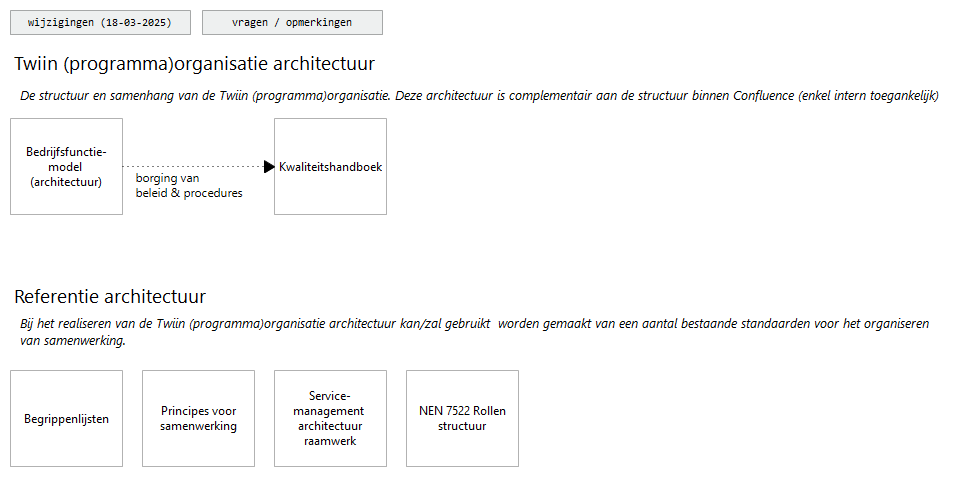
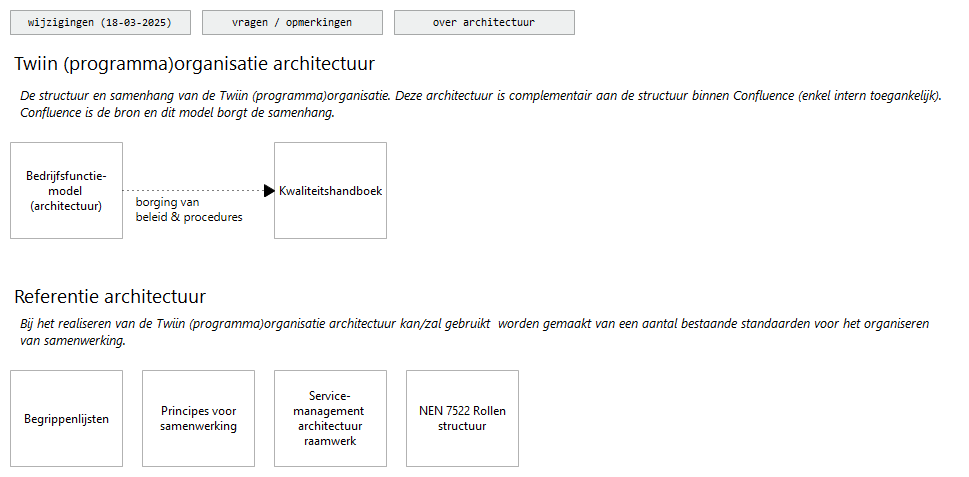
update

Changed region(s): [[0.0, 0.2935, 0.4025, 0.4696], [0.0, 0.2055, 0.3715, 0.2642], [0.4334, 0.0294, 0.5573, 0.0587]]

diff --git a/docs/tw-archi/id-b585bbf4dca74a17a0d9c57ed3b9f891/elements/model.html b/docs/tw-archi/id-b585bbf4dca74a17a0d9c57ed3b9f891/elements/model.html
@@ -136,30 +136,35 @@
 
 								dataFoldersContent.push({folderid:"id-b585bbf4dca74a17a0d9c57ed3b9f891", contentid:"id-059130753c1841ebbe4cdfee5f926d4b", contenttype:"Folder"});
 								dataFolders.push({id:"id-059130753c1841ebbe4cdfee5f926d4b", type:"Folder", name:decodeURL("Motivation"), documentation:decodeURL("")});
-									dataFoldersContent.push({folderid:"id-059130753c1841ebbe4cdfee5f926d4b", contentid:"id-0dcb68d77f0f4fc99e9935d92f7f2747", contenttype:"Principle"});
-										dataElements.push({id:"id-0dcb68d77f0f4fc99e9935d92f7f2747", type:"Principle", specialization:decodeURL(""), name:decodeURL("P1.+Landelijke+beschikbaarheid+en+hergebruik+van+gezondheidsgegevens"), documentation:decodeURL("OMSCHRIJVING%0D%0ALandelijke+en+zorgbrede+%28domeinoverstijgende%29+beschikbaarheid+van+gegevens+door+zorginfrastructuren+te+verbinden+met+afspraken+op+alle+lagen+van+het+interoperabiliteitsmodel.+Het+doel+is+deze+gegevens+in+te+zetten+voor+preventie%2C+zorg+en+welzijn+en+secundair+gebruik.+%0D%0A%0D%0AIn+eerste+instantie+zal+de+focus+van+Twiin+vooral+gericht+zijn+op+beschikbaarheid+en+hergebruik+binnen+de+zorg.%0D%0A%0D%0A%0D%0ARATIONALE%0D%0AZorg+vindt+steeds+meer+plaats+in+meerdere+instellingen+vaak+over+de+regio%27s+heen.+Burgers+zijn+mobiel+en+hebben+onafhankelijk+van+waar+ze+zich+bevinden+binnen+Nederland+recht+op+de+juiste+zorg.+Momenteel+is+de+reikwijdte+van+de+zorg+vaak+nog+beperkt+tot+regionaal%2C+lokaal+of+categoraal+niveau.%0D%0A%0D%0A%0D%0AIMPLICATIE%0D%0A-+Afstemming+op+alle+lagen%3A+politiek%2C+bestuur%2C+%28vak%29-verenigingen%2C+informatie+standaarden+en+infrastructuur+op+landelijk+niveau+in+samenwerking+met+regionale+en+lokale+organisaties.%0D%0A-+Twiin+is+schaalbaar+en+bruikbaar+voor+landelijke+uitwisseling.%0D%0A-+Uitwisseling+via+knooppunten%2C+gebruikmakend+van+%28bestaande%29+gemeenschappelijke+voorzieningen+%28conform+visie+samenhang+op+de+zorginfrastructuren%29.%0D%0A-+Uit+te+breiden+naar+meerdere+zorgtoepassingen.+De+architectuur+van+Twiin+moet+flexibel+genoeg+zijn+om+toekomstige+%28nieuwe%29+zorgtoepassingen+te+ondersteunen.")});
-									dataFoldersContent.push({folderid:"id-059130753c1841ebbe4cdfee5f926d4b", contentid:"id-a691c0ca694b4f02a363ed139cdc512e", contenttype:"Principle"});
-										dataElements.push({id:"id-a691c0ca694b4f02a363ed139cdc512e", type:"Principle", specialization:decodeURL(""), name:decodeURL("P2.+Twiin+is+een+vertrouwd+netwerk+van+organisaties"), documentation:decodeURL("OMSCHRIJVING%0D%0ATwiin+is+een+verzameling+van+autonome+actoren+die+van+elkaar+afhankelijk+zijn+om+een+gemeenschappelijk+probleem+op+te+lossen.%0D%0A%0D%0ADoor+afspraken+met+elkaar+te+maken+over+hoe+we+elkaar+kunnen+vertrouwen+%28in+het+vertrouwensmodel%29+en+deze+te+borgen+door+middel+van+validatie+en+technische+maatregelen+ontstaat+er+vertrouwen+in+elkaar.%0D%0A%0D%0A%0D%0ARATIONALE%0D%0AOm+problemen+op+te+lossen+die+door+een+enkele+organisatie+moeizaam+of+helemaal+niet+kunnen+worden+gerealiseerd.%0D%0A%0D%0A%0D%0AIMPLICATIE%0D%0A-+Twiin+kent+een+governancestructuur+met+rollen%2C+taken%2C+verantwoordelijkheden+en+bevoegdheden+om+besluiten+te+nemen+voor+ontwikkeling+en+beheer.+%0D%0A-+Twiin+kent+een+afsprakenstelsel+dat+bestaat+uit+een+set+van+samenhangende+afspraken%2C+procedures+en+regels+op+gebied+van+organisatie%2C+besturing%2C+toezicht%2C+beheer%2C+architectuur%2C+toepassingen%2C+techniek+met+als+doel+het+realiseren+en+borgen+van+het+vertrouwen+binnen+het+Twiin+netwerk.")});
-									dataFoldersContent.push({folderid:"id-059130753c1841ebbe4cdfee5f926d4b", contentid:"id-636be6794aac43b7a68b0efa26a36986", contenttype:"Principle"});
-										dataElements.push({id:"id-636be6794aac43b7a68b0efa26a36986", type:"Principle", specialization:decodeURL(""), name:decodeURL("P3.+Het+Twiin+Afsprakenstelsel+leeft+en+blijft+zich+ontwikkelen"), documentation:decodeURL("OMSCHRIJVING%0D%0AHet+Twiin+Afsprakenstelsel+leeft.+We+groeien+door+ervaringen+en+verwerken+deze+in+het+afsprakenstelsel.%0D%0A%0D%0A%0D%0ARATIONALE%0D%0AOm+doorontwikkeling+mogelijk+te+maken+%C3%A9n+te+kunnen+leren+van+tussentijdse+ervaringen%2C+volgt+het+afsprakenstelsel+een+groeipad.%0D%0A%0D%0AOm+voortgang+te+laten+zien%2C+te+gebruiken+wat+er+al+is+en+z.s.m.+oplossingen+te+integreren.%0D%0A%0D%0ADaarbij+is+ook+de+haalbaarheid+van+realisatie%2C+waaronder+de+aansluiting+op+de+huidige+ontwikkelingen+in+de+markt%2C+een+criterium.%0D%0A%0D%0ADaar+waar+duidelijkheid+nodig+is+in+de+afspraken+die+pas+op+termijn+van+kracht+zijn%2C+maar+die+op+enig+moment+nog+niet+haalbaar+zijn%2C+kan+een+groeipad+worden+afgesproken.%0D%0A%0D%0A%0D%0AIMPLICATIE%0D%0A-+Het+doel+van+Twiin+is+het+faciliteren+van+meerdere+zorgtoepassingen+door+het+aanbieden+van+gemeenschappelijke+voorzieningen+en+afspraken+voor+het+landelijk+beschikbaar+maken+en%2Fof+uitwisselen+van+gegevens.%0D%0A-+Twiin+heeft+als+ambitie+om+zorgdomeinbreed+te+faciliteren.%0D%0A-+Bij+het+oppakken+van+zorgtoepassingen+zijn+de+reeds+bestaande+landelijke+programma%E2%80%99s+in+de+lead+en+de+prioritering+van+de+WEGIZ+is+van+belang.")});
-									dataFoldersContent.push({folderid:"id-059130753c1841ebbe4cdfee5f926d4b", contentid:"id-0cf457532a4f4e4683f88f9436fed0be", contenttype:"Principle"});
-										dataElements.push({id:"id-0cf457532a4f4e4683f88f9436fed0be", type:"Principle", specialization:decodeURL(""), name:decodeURL("P4.+De+functionele+behoeften+van+zorgverleners%2C+zorgaanbieders+en+pati%C3%ABnten+zijn+leidend"), documentation:decodeURL("OMSCHRIJVING%0D%0ADe+functionele+behoeften+van+zorgverleners%2C+zorgaanbieders+en+pati%C3%ABnten+zijn+leidend+voor+het+Twiin+Afsprakenstelsel.%0D%0A%0D%0ARATIONALE%0D%0ADe+voornaamste+drijfveer+van+Twiin+is+om+invulling+te+geven+aan+de+functionele+behoeften+van+zorgverleners+en+pati%C3%ABnten+op+zodanige+wijze+dat+landelijke+dekking+en+maximaal+hergebruik+mogelijk+is+en+daardoor+de+zorgverlener+te+ontlasten+van+registratielast+en+de+zorg+te+verbeteren.+Ook+validatie+wordt+zo+ingericht+dat+de+belasting+zo+beperkt+mogelijk+is.+%0D%0A%0D%0AIMPLICATIE%0D%0A-+Voor+de+%28door%29ontwikkeling+van+Twiin%2C+inclusief+de+gemeenschappelijke+voorzieningen+en+afspraken%2C+gelden+de+functionele+behoeften+als+uitgangspunt.")});
-									dataFoldersContent.push({folderid:"id-059130753c1841ebbe4cdfee5f926d4b", contentid:"id-c376321785b84cba9f271229ea9f9472", contenttype:"Principle"});
-										dataElements.push({id:"id-c376321785b84cba9f271229ea9f9472", type:"Principle", specialization:decodeURL(""), name:decodeURL("P5.+Deelname+aan+Twiin+is+vrijwillig+maar+niet+vrijblijvend"), documentation:decodeURL("OMSCHRIJVING%0D%0AVrijwillig%0D%0AEen+zorgaanbieder+besluit+zelf+om+wel+of+niet+aan+te+sluiten+en+voor+welke+zorgtoepassing+dit+gebeurt.%0D%0A%0D%0ANiet+vrijblijvend%0D%0ADeelnemende+zorgaanbieders+dienen+te+voldoen+aan+de+afspraken+van+het+afsprakenstelsel.%0D%0A%0D%0ARATIONALE%0D%0AZorgaanbieders+die+aansluiten+moeten+er+op+kunnen+vertrouwen+dat+andere+aangesloten+zorgaanbieders+conform+het+afsprakenstelsel+werken.%0D%0A%0D%0AIMPLICATIE%0D%0A-+Mogelijk+zal+op+termijn+uitwisseling+van+gegevens+in+veldnormen+worden+opgenomen+en+via+VWS+worden+verankerd+in+wetgeving.%0D%0A-+Door+aansluiting+op+Twiin+kan+dit+vervolgens+in+de+praktijk+worden+gerealiseerd.+%0D%0A-+Elke+deelnemende+zorgaanbieder+beoogt+uitwisseling+met+alle+deelnemers+van+de+infrastructuur+binnen+de+zorgtoepassing+waarin+wordt+meegedaan.%0D%0A-+Het+afsprakenstelsel+verplicht+deelnemers+niet+om+daadwerkelijk+gegevens+uit+te+wisselen.+Dat+is+uiteindelijk+aan+de+zorgaanbieder%2Fpati%C3%ABnt.%0D%0A-+Zorgaanbieders+die+aansluiten+hebben+een+inspanningsverplichting+om+gegevens+beschikbaar+te+stellen.+")});
-									dataFoldersContent.push({folderid:"id-059130753c1841ebbe4cdfee5f926d4b", contentid:"id-f41596a6fbd34848bfc43be86cb89056", contenttype:"Principle"});
-										dataElements.push({id:"id-f41596a6fbd34848bfc43be86cb89056", type:"Principle", specialization:decodeURL(""), name:decodeURL("P6.+Keuzevrijheid+voor+zorgaanbieders+en+leveranciers"), documentation:decodeURL("OMSCHRIJVING%0D%0AZowel+de+%E2%80%98bewegingsvrijheid%E2%80%99+van+zorgaanbieders%2C+als+de+keuzevrijheid+van+beheerders+en+leveranciers+moet+zo+veel+mogelijk+in+stand+worden+gehouden.%0D%0A%0D%0ARATIONALE%0D%0ADe+zorgaanbieder+moet+vrijheid+hebben+in+de+leverancierskeuze+die+het+beste+bij+de+bedrijfsprocessen+past+of+economisch+gezien+het+meest+voordelig+is.%0D%0A%0D%0AZorgaanbieders+moeten+eenvoudig+kunnen+aansluiten+met+zo+min+mogelijk+opgeworpen+drempels.%0D%0A%0D%0ALeveranciers+hebben+gelijke+kansen+om+deel+te+nemen.%0D%0A%0D%0A%0D%0AIMPLICATIE%0D%0A-+De+Twiin+Dienstverleners+moeten+een+brede+kennis+hebben+van+en+relaties+hebben+met+leveranciers.%0D%0A-+Twiin+levert+een+overzicht+van+aansluitvoorwaarden+voor+zorgaanbieders%2C+GtK+Beheerders%2C+Twiin+Dienstverleners+en+GtK%E2%80%99s")});
-									dataFoldersContent.push({folderid:"id-059130753c1841ebbe4cdfee5f926d4b", contentid:"id-0ff7901da1674d18b0b14d908759be46", contenttype:"Principle"});
-										dataElements.push({id:"id-0ff7901da1674d18b0b14d908759be46", type:"Principle", specialization:decodeURL(""), name:decodeURL("P7.+Privacy+en+Security+by+design"), documentation:decodeURL("OMSCHRIJVING%0D%0AVoor+Twiin+zijn+privacy+en+informatiebeveiliging+randvoorwaardelijk.%0D%0A%0D%0ARATIONALE%0D%0APrivacy+en+security+zijn+randvoorwaardelijk+en+worden+dan+ook+vanaf+het+begin+meegenomen+in+het+ontwerp+en+de+ontwikkeling.%0D%0A%0D%0AIMPLICATIE%0D%0A-+Principes+en+best+practices+van+security+en+privacy+by+design+worden+gehanteerd+bij+het+maken+en+doorontwikkelen+van+het+Twiin+Afsprakenstelsel+en+architectuur.%0D%0A-+Informatiebeveiliging+en+privacy+worden+vanaf+het+begin+en+bij+doorontwikkeling+meegenomen+in+het+vertrouwensmodel+en+de+technische+uitwerking+hiervan+in+de+kern.+Het+heeft+zijn+impact+op+alle+onderdelen+van+het+afsprakenstelsel.%0D%0A-+Iedere+Twiin+deelnemer+zorgt+dat+wordt+voldaan+aan+de+beveiligingsnormen%2C+waaronder+met+name+NEN+7510%2C+NEN+7512+en+NEN+7513")});
-									dataFoldersContent.push({folderid:"id-059130753c1841ebbe4cdfee5f926d4b", contentid:"id-29b276598f7942a9bf04b73c23f3b80c", contenttype:"Principle"});
-										dataElements.push({id:"id-29b276598f7942a9bf04b73c23f3b80c", type:"Principle", specialization:decodeURL(""), name:decodeURL("P8.+Gebruik+van+internationale+standaarden"), documentation:decodeURL("OMSCHRIJVING%0D%0AHantering+van+internationale+standaarden+boven+Europese+en+nationale+standaarden%0D%0A%0D%0AOm+technische+interoperabiliteit+te+realiseren%2C+gaat+Twiin+zoveel+mogelijk+uit+van+open+%28internationale%29+standaarden.%0D%0A%0D%0ATwiin+maakt+gebruik+van+bestaande+en+in+beheer+zijnde+standaarden%2C+normen+en+agreements.%0D%0A%0D%0A%0D%0ARATIONALE%0D%0ADoor+gebruik+van+open+internationale+standaarden+wordt+de+afhankelijkheid+van+een+leverancier+grotendeels+voorkomen.%0D%0A%0D%0ADe+uitwisselbaarheid+en+herbruikbaarheid+wordt+verhoogd.+%0D%0A%0D%0APer+zorgtoepassing+zijn+andere+partijen+betrokken+en+worden+andere+gegevens+uitgewisseld%2C+waardoor+keuze+voor+een+vaste+techniek+niet+altijd+de+meest+passende+is.%0D%0A%0D%0AOpen+internationale+standaarden+worden+breed+gedragen+en+zullen+in+samenhang+met+nieuwe+standaarden+blijven+werken+%28robuust%29.%0D%0A%0D%0AZorg+is+internationaal+en+leveranciers+van+informatietechnologie%C3%ABn+zijn+internationaal.%0D%0A%0D%0A%0D%0AIMPLICATIE%0D%0A-+De+keuze+is+niet+gebaseerd+op+%C3%A9%C3%A9n+enkele+techniek.+Er+wordt+gekeken+wat+de+juiste+keuze+is+per+%27zorgtoepassing%27+en+naar+wat+mogelijk+is%2C+uitgaande+van+vorige+principes+en+al+in+gebruik+zijnde+standaarden.%0D%0A-+Standaarden+moeten+implementeerbaar+zijn+in+de+Nederlandse+setting+door+meerdere+leveranciers+en+in+lijn+zijn+met+toepasselijke+wet-+en+regelgeving.%0D%0A-+Indien+nodig+kan+er+gebruik+gemaakt+worden+van+nationale+extensies+of+kunnen+nationale+extensies+ontwikkeld+worden.++%0D%0A-+Twiin+verwijst+naar+andere+organisaties+als+het+gaat+om+standaarden%2C+zoals+kwaliteitsstandaarden+of+informatiestandaarden.%0D%0A-+Hierdoor+ontstaat+een+afhankelijkheid+van+deze+standaarden.+De+verantwoordelijkheid+voor+deze+standaarden+ligt+bij+de+organisaties+die+deze+standaarden+cre%C3%ABren+en%2F+of+beheren.+Ook+een+eventuele+kwalificatie+om+te+voldoen+aan+deze+standaarden+ligt+bij+deze+organisaties.%0D%0A-+Voor+elke+zorgtoepassing+zal+door+het+veld+geanalyseerd+worden+of+de+bestaande+informatiestandaard+landelijk+toereikend+is+of+dat+er+toevoegingen+moeten+komen.%0D%0A-+Als+er+nog+geen+informatiestandaard+is%2C+dan+wordt+deze+ontwikkeld+%28buiten+Twiin%29+op+basis+van+%28inter%29nationale+standaarden.")});
-									dataFoldersContent.push({folderid:"id-059130753c1841ebbe4cdfee5f926d4b", contentid:"id-fd8f339f49b547e19df9332aeccdc9d5", contenttype:"Principle"});
-										dataElements.push({id:"id-fd8f339f49b547e19df9332aeccdc9d5", type:"Principle", specialization:decodeURL(""), name:decodeURL("Principle"), documentation:decodeURL("")});
-									dataFoldersContent.push({folderid:"id-059130753c1841ebbe4cdfee5f926d4b", contentid:"id-971a682fee2b43089d83ed4c0eb87ac7", contenttype:"Requirement"});
-										dataElements.push({id:"id-971a682fee2b43089d83ed4c0eb87ac7", type:"Requirement", specialization:decodeURL(""), name:decodeURL("Zorgaanbieder+identificatie"), documentation:decodeURL("VEREISTE%0D%0A+-+%0D%0A%0D%0AVERANTWOORDELIJKHEID%0D%0A-+%0D%0A%0D%0AINVULLING+TWIIN%0D%0A-+%0D%0A%0D%0ATOELICHTING%0D%0A-+")});
-									dataFoldersContent.push({folderid:"id-059130753c1841ebbe4cdfee5f926d4b", contentid:"id-909c1f9e5299462fa05c6dda18d77d51", contenttype:"Requirement"});
-										dataElements.push({id:"id-909c1f9e5299462fa05c6dda18d77d51", type:"Requirement", specialization:decodeURL(""), name:decodeURL("Zorgverlener+identificatie"), documentation:decodeURL("VEREISTE%0D%0A+-+%0D%0A%0D%0AVERANTWOORDELIJKHEID%0D%0A-+%0D%0A%0D%0AINVULLING+TWIIN%0D%0A-+%0D%0A%0D%0ATOELICHTING%0D%0A-+")});
-									dataFoldersContent.push({folderid:"id-059130753c1841ebbe4cdfee5f926d4b", contentid:"id-6e5548731d024352b83623507ea2c99d", contenttype:"Constraint"});
-										dataElements.push({id:"id-6e5548731d024352b83623507ea2c99d", type:"Constraint", specialization:decodeURL(""), name:decodeURL("Pati%C3%ABnt+identificatie"), documentation:decodeURL("VEREISTE%0D%0A-+Pati%C3%ABnten+worden+ge%C3%AFdentificeerd++met+een+landelijk+uniek+nummer%3B+het+BSN%0D%0A%0D%0AVERANTWOORDELIJKHEID%0D%0A-+Dossierhouder+en+dossierraadpleger%2F-ontvanger+dienen+pati%C3%ABnten+op+dezelfde+manier+te+identificeren.%0D%0A%0D%0AINVULLING+TWIIN%0D%0A+-+BSN%0D%0A%0D%0AVERANTWOORDELIJKHEID%0D%0A-+Twiin+heeft+nog+niet+uitgewerkt%2C+hoe+om+te+gaan+met+een+niet+aanwezig+BSN+en+gaat+vooralsnog+uit+van+uitwisseling+op+basis+van+BSN.+Als+er+geen+BSN+is+kan+er+voorlopig+dan+ook+niet+uitgewisseld+worden+op+basis+van+validatie+door+Twiin.")});
+									dataFoldersContent.push({folderid:"id-059130753c1841ebbe4cdfee5f926d4b", contentid:"id-2df2a9834b7945499183e3fa654c92b4", contenttype:"Folder"});
+									dataFolders.push({id:"id-2df2a9834b7945499183e3fa654c92b4", type:"Folder", name:decodeURL("Afsprakenstelsel+-+principes"), documentation:decodeURL("")});
+										dataFoldersContent.push({folderid:"id-2df2a9834b7945499183e3fa654c92b4", contentid:"id-0dcb68d77f0f4fc99e9935d92f7f2747", contenttype:"Principle"});
+											dataElements.push({id:"id-0dcb68d77f0f4fc99e9935d92f7f2747", type:"Principle", specialization:decodeURL(""), name:decodeURL("P1.+Landelijke+beschikbaarheid+en+hergebruik+van+gezondheidsgegevens"), documentation:decodeURL("OMSCHRIJVING%0D%0ALandelijke+en+zorgbrede+%28domeinoverstijgende%29+beschikbaarheid+van+gegevens+door+zorginfrastructuren+te+verbinden+met+afspraken+op+alle+lagen+van+het+interoperabiliteitsmodel.+Het+doel+is+deze+gegevens+in+te+zetten+voor+preventie%2C+zorg+en+welzijn+en+secundair+gebruik.+%0D%0A%0D%0AIn+eerste+instantie+zal+de+focus+van+Twiin+vooral+gericht+zijn+op+beschikbaarheid+en+hergebruik+binnen+de+zorg.%0D%0A%0D%0A%0D%0ARATIONALE%0D%0AZorg+vindt+steeds+meer+plaats+in+meerdere+instellingen+vaak+over+de+regio%27s+heen.+Burgers+zijn+mobiel+en+hebben+onafhankelijk+van+waar+ze+zich+bevinden+binnen+Nederland+recht+op+de+juiste+zorg.+Momenteel+is+de+reikwijdte+van+de+zorg+vaak+nog+beperkt+tot+regionaal%2C+lokaal+of+categoraal+niveau.%0D%0A%0D%0A%0D%0AIMPLICATIE%0D%0A-+Afstemming+op+alle+lagen%3A+politiek%2C+bestuur%2C+%28vak%29-verenigingen%2C+informatie+standaarden+en+infrastructuur+op+landelijk+niveau+in+samenwerking+met+regionale+en+lokale+organisaties.%0D%0A-+Twiin+is+schaalbaar+en+bruikbaar+voor+landelijke+uitwisseling.%0D%0A-+Uitwisseling+via+knooppunten%2C+gebruikmakend+van+%28bestaande%29+gemeenschappelijke+voorzieningen+%28conform+visie+samenhang+op+de+zorginfrastructuren%29.%0D%0A-+Uit+te+breiden+naar+meerdere+zorgtoepassingen.+De+architectuur+van+Twiin+moet+flexibel+genoeg+zijn+om+toekomstige+%28nieuwe%29+zorgtoepassingen+te+ondersteunen.")});
+										dataFoldersContent.push({folderid:"id-2df2a9834b7945499183e3fa654c92b4", contentid:"id-a691c0ca694b4f02a363ed139cdc512e", contenttype:"Principle"});
+											dataElements.push({id:"id-a691c0ca694b4f02a363ed139cdc512e", type:"Principle", specialization:decodeURL(""), name:decodeURL("P2.+Twiin+is+een+vertrouwd+netwerk+van+organisaties"), documentation:decodeURL("OMSCHRIJVING%0D%0ATwiin+is+een+verzameling+van+autonome+actoren+die+van+elkaar+afhankelijk+zijn+om+een+gemeenschappelijk+probleem+op+te+lossen.%0D%0A%0D%0ADoor+afspraken+met+elkaar+te+maken+over+hoe+we+elkaar+kunnen+vertrouwen+%28in+het+vertrouwensmodel%29+en+deze+te+borgen+door+middel+van+validatie+en+technische+maatregelen+ontstaat+er+vertrouwen+in+elkaar.%0D%0A%0D%0A%0D%0ARATIONALE%0D%0AOm+problemen+op+te+lossen+die+door+een+enkele+organisatie+moeizaam+of+helemaal+niet+kunnen+worden+gerealiseerd.%0D%0A%0D%0A%0D%0AIMPLICATIE%0D%0A-+Twiin+kent+een+governancestructuur+met+rollen%2C+taken%2C+verantwoordelijkheden+en+bevoegdheden+om+besluiten+te+nemen+voor+ontwikkeling+en+beheer.+%0D%0A-+Twiin+kent+een+afsprakenstelsel+dat+bestaat+uit+een+set+van+samenhangende+afspraken%2C+procedures+en+regels+op+gebied+van+organisatie%2C+besturing%2C+toezicht%2C+beheer%2C+architectuur%2C+toepassingen%2C+techniek+met+als+doel+het+realiseren+en+borgen+van+het+vertrouwen+binnen+het+Twiin+netwerk.")});
+										dataFoldersContent.push({folderid:"id-2df2a9834b7945499183e3fa654c92b4", contentid:"id-636be6794aac43b7a68b0efa26a36986", contenttype:"Principle"});
+											dataElements.push({id:"id-636be6794aac43b7a68b0efa26a36986", type:"Principle", specialization:decodeURL(""), name:decodeURL("P3.+Het+Twiin+Afsprakenstelsel+leeft+en+blijft+zich+ontwikkelen"), documentation:decodeURL("OMSCHRIJVING%0D%0AHet+Twiin+Afsprakenstelsel+leeft.+We+groeien+door+ervaringen+en+verwerken+deze+in+het+afsprakenstelsel.%0D%0A%0D%0A%0D%0ARATIONALE%0D%0AOm+doorontwikkeling+mogelijk+te+maken+%C3%A9n+te+kunnen+leren+van+tussentijdse+ervaringen%2C+volgt+het+afsprakenstelsel+een+groeipad.%0D%0A%0D%0AOm+voortgang+te+laten+zien%2C+te+gebruiken+wat+er+al+is+en+z.s.m.+oplossingen+te+integreren.%0D%0A%0D%0ADaarbij+is+ook+de+haalbaarheid+van+realisatie%2C+waaronder+de+aansluiting+op+de+huidige+ontwikkelingen+in+de+markt%2C+een+criterium.%0D%0A%0D%0ADaar+waar+duidelijkheid+nodig+is+in+de+afspraken+die+pas+op+termijn+van+kracht+zijn%2C+maar+die+op+enig+moment+nog+niet+haalbaar+zijn%2C+kan+een+groeipad+worden+afgesproken.%0D%0A%0D%0A%0D%0AIMPLICATIE%0D%0A-+Het+doel+van+Twiin+is+het+faciliteren+van+meerdere+zorgtoepassingen+door+het+aanbieden+van+gemeenschappelijke+voorzieningen+en+afspraken+voor+het+landelijk+beschikbaar+maken+en%2Fof+uitwisselen+van+gegevens.%0D%0A-+Twiin+heeft+als+ambitie+om+zorgdomeinbreed+te+faciliteren.%0D%0A-+Bij+het+oppakken+van+zorgtoepassingen+zijn+de+reeds+bestaande+landelijke+programma%E2%80%99s+in+de+lead+en+de+prioritering+van+de+WEGIZ+is+van+belang.")});
+										dataFoldersContent.push({folderid:"id-2df2a9834b7945499183e3fa654c92b4", contentid:"id-0cf457532a4f4e4683f88f9436fed0be", contenttype:"Principle"});
+											dataElements.push({id:"id-0cf457532a4f4e4683f88f9436fed0be", type:"Principle", specialization:decodeURL(""), name:decodeURL("P4.+De+functionele+behoeften+van+zorgverleners%2C+zorgaanbieders+en+pati%C3%ABnten+zijn+leidend"), documentation:decodeURL("OMSCHRIJVING%0D%0ADe+functionele+behoeften+van+zorgverleners%2C+zorgaanbieders+en+pati%C3%ABnten+zijn+leidend+voor+het+Twiin+Afsprakenstelsel.%0D%0A%0D%0ARATIONALE%0D%0ADe+voornaamste+drijfveer+van+Twiin+is+om+invulling+te+geven+aan+de+functionele+behoeften+van+zorgverleners+en+pati%C3%ABnten+op+zodanige+wijze+dat+landelijke+dekking+en+maximaal+hergebruik+mogelijk+is+en+daardoor+de+zorgverlener+te+ontlasten+van+registratielast+en+de+zorg+te+verbeteren.+Ook+validatie+wordt+zo+ingericht+dat+de+belasting+zo+beperkt+mogelijk+is.+%0D%0A%0D%0AIMPLICATIE%0D%0A-+Voor+de+%28door%29ontwikkeling+van+Twiin%2C+inclusief+de+gemeenschappelijke+voorzieningen+en+afspraken%2C+gelden+de+functionele+behoeften+als+uitgangspunt.")});
+										dataFoldersContent.push({folderid:"id-2df2a9834b7945499183e3fa654c92b4", contentid:"id-c376321785b84cba9f271229ea9f9472", contenttype:"Principle"});
+											dataElements.push({id:"id-c376321785b84cba9f271229ea9f9472", type:"Principle", specialization:decodeURL(""), name:decodeURL("P5.+Deelname+aan+Twiin+is+vrijwillig+maar+niet+vrijblijvend"), documentation:decodeURL("OMSCHRIJVING%0D%0AVrijwillig%0D%0AEen+zorgaanbieder+besluit+zelf+om+wel+of+niet+aan+te+sluiten+en+voor+welke+zorgtoepassing+dit+gebeurt.%0D%0A%0D%0ANiet+vrijblijvend%0D%0ADeelnemende+zorgaanbieders+dienen+te+voldoen+aan+de+afspraken+van+het+afsprakenstelsel.%0D%0A%0D%0ARATIONALE%0D%0AZorgaanbieders+die+aansluiten+moeten+er+op+kunnen+vertrouwen+dat+andere+aangesloten+zorgaanbieders+conform+het+afsprakenstelsel+werken.%0D%0A%0D%0AIMPLICATIE%0D%0A-+Mogelijk+zal+op+termijn+uitwisseling+van+gegevens+in+veldnormen+worden+opgenomen+en+via+VWS+worden+verankerd+in+wetgeving.%0D%0A-+Door+aansluiting+op+Twiin+kan+dit+vervolgens+in+de+praktijk+worden+gerealiseerd.+%0D%0A-+Elke+deelnemende+zorgaanbieder+beoogt+uitwisseling+met+alle+deelnemers+van+de+infrastructuur+binnen+de+zorgtoepassing+waarin+wordt+meegedaan.%0D%0A-+Het+afsprakenstelsel+verplicht+deelnemers+niet+om+daadwerkelijk+gegevens+uit+te+wisselen.+Dat+is+uiteindelijk+aan+de+zorgaanbieder%2Fpati%C3%ABnt.%0D%0A-+Zorgaanbieders+die+aansluiten+hebben+een+inspanningsverplichting+om+gegevens+beschikbaar+te+stellen.+")});
+										dataFoldersContent.push({folderid:"id-2df2a9834b7945499183e3fa654c92b4", contentid:"id-f41596a6fbd34848bfc43be86cb89056", contenttype:"Principle"});
+											dataElements.push({id:"id-f41596a6fbd34848bfc43be86cb89056", type:"Principle", specialization:decodeURL(""), name:decodeURL("P6.+Keuzevrijheid+voor+zorgaanbieders+en+leveranciers"), documentation:decodeURL("OMSCHRIJVING%0D%0AZowel+de+%E2%80%98bewegingsvrijheid%E2%80%99+van+zorgaanbieders%2C+als+de+keuzevrijheid+van+beheerders+en+leveranciers+moet+zo+veel+mogelijk+in+stand+worden+gehouden.%0D%0A%0D%0ARATIONALE%0D%0ADe+zorgaanbieder+moet+vrijheid+hebben+in+de+leverancierskeuze+die+het+beste+bij+de+bedrijfsprocessen+past+of+economisch+gezien+het+meest+voordelig+is.%0D%0A%0D%0AZorgaanbieders+moeten+eenvoudig+kunnen+aansluiten+met+zo+min+mogelijk+opgeworpen+drempels.%0D%0A%0D%0ALeveranciers+hebben+gelijke+kansen+om+deel+te+nemen.%0D%0A%0D%0A%0D%0AIMPLICATIE%0D%0A-+De+Twiin+Dienstverleners+moeten+een+brede+kennis+hebben+van+en+relaties+hebben+met+leveranciers.%0D%0A-+Twiin+levert+een+overzicht+van+aansluitvoorwaarden+voor+zorgaanbieders%2C+GtK+Beheerders%2C+Twiin+Dienstverleners+en+GtK%E2%80%99s")});
+										dataFoldersContent.push({folderid:"id-2df2a9834b7945499183e3fa654c92b4", contentid:"id-0ff7901da1674d18b0b14d908759be46", contenttype:"Principle"});
+											dataElements.push({id:"id-0ff7901da1674d18b0b14d908759be46", type:"Principle", specialization:decodeURL(""), name:decodeURL("P7.+Privacy+en+Security+by+design"), documentation:decodeURL("OMSCHRIJVING%0D%0AVoor+Twiin+zijn+privacy+en+informatiebeveiliging+randvoorwaardelijk.%0D%0A%0D%0ARATIONALE%0D%0APrivacy+en+security+zijn+randvoorwaardelijk+en+worden+dan+ook+vanaf+het+begin+meegenomen+in+het+ontwerp+en+de+ontwikkeling.%0D%0A%0D%0AIMPLICATIE%0D%0A-+Principes+en+best+practices+van+security+en+privacy+by+design+worden+gehanteerd+bij+het+maken+en+doorontwikkelen+van+het+Twiin+Afsprakenstelsel+en+architectuur.%0D%0A-+Informatiebeveiliging+en+privacy+worden+vanaf+het+begin+en+bij+doorontwikkeling+meegenomen+in+het+vertrouwensmodel+en+de+technische+uitwerking+hiervan+in+de+kern.+Het+heeft+zijn+impact+op+alle+onderdelen+van+het+afsprakenstelsel.%0D%0A-+Iedere+Twiin+deelnemer+zorgt+dat+wordt+voldaan+aan+de+beveiligingsnormen%2C+waaronder+met+name+NEN+7510%2C+NEN+7512+en+NEN+7513")});
+										dataFoldersContent.push({folderid:"id-2df2a9834b7945499183e3fa654c92b4", contentid:"id-29b276598f7942a9bf04b73c23f3b80c", contenttype:"Principle"});
+											dataElements.push({id:"id-29b276598f7942a9bf04b73c23f3b80c", type:"Principle", specialization:decodeURL(""), name:decodeURL("P8.+Gebruik+van+internationale+standaarden"), documentation:decodeURL("OMSCHRIJVING%0D%0AHantering+van+internationale+standaarden+boven+Europese+en+nationale+standaarden%0D%0A%0D%0AOm+technische+interoperabiliteit+te+realiseren%2C+gaat+Twiin+zoveel+mogelijk+uit+van+open+%28internationale%29+standaarden.%0D%0A%0D%0ATwiin+maakt+gebruik+van+bestaande+en+in+beheer+zijnde+standaarden%2C+normen+en+agreements.%0D%0A%0D%0A%0D%0ARATIONALE%0D%0ADoor+gebruik+van+open+internationale+standaarden+wordt+de+afhankelijkheid+van+een+leverancier+grotendeels+voorkomen.%0D%0A%0D%0ADe+uitwisselbaarheid+en+herbruikbaarheid+wordt+verhoogd.+%0D%0A%0D%0APer+zorgtoepassing+zijn+andere+partijen+betrokken+en+worden+andere+gegevens+uitgewisseld%2C+waardoor+keuze+voor+een+vaste+techniek+niet+altijd+de+meest+passende+is.%0D%0A%0D%0AOpen+internationale+standaarden+worden+breed+gedragen+en+zullen+in+samenhang+met+nieuwe+standaarden+blijven+werken+%28robuust%29.%0D%0A%0D%0AZorg+is+internationaal+en+leveranciers+van+informatietechnologie%C3%ABn+zijn+internationaal.%0D%0A%0D%0A%0D%0AIMPLICATIE%0D%0A-+De+keuze+is+niet+gebaseerd+op+%C3%A9%C3%A9n+enkele+techniek.+Er+wordt+gekeken+wat+de+juiste+keuze+is+per+%27zorgtoepassing%27+en+naar+wat+mogelijk+is%2C+uitgaande+van+vorige+principes+en+al+in+gebruik+zijnde+standaarden.%0D%0A-+Standaarden+moeten+implementeerbaar+zijn+in+de+Nederlandse+setting+door+meerdere+leveranciers+en+in+lijn+zijn+met+toepasselijke+wet-+en+regelgeving.%0D%0A-+Indien+nodig+kan+er+gebruik+gemaakt+worden+van+nationale+extensies+of+kunnen+nationale+extensies+ontwikkeld+worden.++%0D%0A-+Twiin+verwijst+naar+andere+organisaties+als+het+gaat+om+standaarden%2C+zoals+kwaliteitsstandaarden+of+informatiestandaarden.%0D%0A-+Hierdoor+ontstaat+een+afhankelijkheid+van+deze+standaarden.+De+verantwoordelijkheid+voor+deze+standaarden+ligt+bij+de+organisaties+die+deze+standaarden+cre%C3%ABren+en%2F+of+beheren.+Ook+een+eventuele+kwalificatie+om+te+voldoen+aan+deze+standaarden+ligt+bij+deze+organisaties.%0D%0A-+Voor+elke+zorgtoepassing+zal+door+het+veld+geanalyseerd+worden+of+de+bestaande+informatiestandaard+landelijk+toereikend+is+of+dat+er+toevoegingen+moeten+komen.%0D%0A-+Als+er+nog+geen+informatiestandaard+is%2C+dan+wordt+deze+ontwikkeld+%28buiten+Twiin%29+op+basis+van+%28inter%29nationale+standaarden.")});
+
+									dataFoldersContent.push({folderid:"id-059130753c1841ebbe4cdfee5f926d4b", contentid:"id-e8602a6434564276821801027030fee5", contenttype:"Folder"});
+									dataFolders.push({id:"id-e8602a6434564276821801027030fee5", type:"Folder", name:decodeURL("Vertrouwensmode+-+requirements"), documentation:decodeURL("")});
+										dataFoldersContent.push({folderid:"id-e8602a6434564276821801027030fee5", contentid:"id-6e5548731d024352b83623507ea2c99d", contenttype:"Constraint"});
+											dataElements.push({id:"id-6e5548731d024352b83623507ea2c99d", type:"Constraint", specialization:decodeURL(""), name:decodeURL("Pati%C3%ABnt+identificatie"), documentation:decodeURL("VEREISTE%0D%0A-+Pati%C3%ABnten+worden+ge%C3%AFdentificeerd++met+een+landelijk+uniek+nummer%3B+het+BSN%0D%0A%0D%0AVERANTWOORDELIJKHEID%0D%0A-+Dossierhouder+en+dossierraadpleger%2F-ontvanger+dienen+pati%C3%ABnten+op+dezelfde+manier+te+identificeren.%0D%0A%0D%0AINVULLING+TWIIN%0D%0A+-+BSN%0D%0A%0D%0AVERANTWOORDELIJKHEID%0D%0A-+Twiin+heeft+nog+niet+uitgewerkt%2C+hoe+om+te+gaan+met+een+niet+aanwezig+BSN+en+gaat+vooralsnog+uit+van+uitwisseling+op+basis+van+BSN.+Als+er+geen+BSN+is+kan+er+voorlopig+dan+ook+niet+uitgewisseld+worden+op+basis+van+validatie+door+Twiin.")});
+										dataFoldersContent.push({folderid:"id-e8602a6434564276821801027030fee5", contentid:"id-971a682fee2b43089d83ed4c0eb87ac7", contenttype:"Requirement"});
+											dataElements.push({id:"id-971a682fee2b43089d83ed4c0eb87ac7", type:"Requirement", specialization:decodeURL(""), name:decodeURL("Zorgaanbieder+identificatie"), documentation:decodeURL("VEREISTE%0D%0A+-+%0D%0A%0D%0AVERANTWOORDELIJKHEID%0D%0A-+%0D%0A%0D%0AINVULLING+TWIIN%0D%0A-+%0D%0A%0D%0ATOELICHTING%0D%0A-+")});
+										dataFoldersContent.push({folderid:"id-e8602a6434564276821801027030fee5", contentid:"id-909c1f9e5299462fa05c6dda18d77d51", contenttype:"Requirement"});
+											dataElements.push({id:"id-909c1f9e5299462fa05c6dda18d77d51", type:"Requirement", specialization:decodeURL(""), name:decodeURL("Zorgverlener+identificatie"), documentation:decodeURL("VEREISTE%0D%0A+-+%0D%0A%0D%0AVERANTWOORDELIJKHEID%0D%0A-+%0D%0A%0D%0AINVULLING+TWIIN%0D%0A-+%0D%0A%0D%0ATOELICHTING%0D%0A-+")});
+
+
 
 								dataFoldersContent.push({folderid:"id-b585bbf4dca74a17a0d9c57ed3b9f891", contentid:"id-63493ae9eac74821a00569d2af89f82a", contenttype:"Folder"});
 								dataFolders.push({id:"id-63493ae9eac74821a00569d2af89f82a", type:"Folder", name:decodeURL("Implementation+%26+Migration"), documentation:decodeURL("")});

diff --git a/docs/tw-archi/index.html b/docs/tw-archi/index.html
@@ -67,19 +67,26 @@
 								</li>
 								<li class="tree-folder "><span class="i18n-motivation"><i class="glyphicon glyphicon-triangle-right"></i> </span>
 									<ul>
-													<li class="tree-element "><a href="id-b585bbf4dca74a17a0d9c57ed3b9f891/elements/id-0dcb68d77f0f4fc99e9935d92f7f2747.html" target="element"> P1. Landelijke beschikbaarheid en hergebruik van gezondheidsgegevens </a></li>
-													<li class="tree-element "><a href="id-b585bbf4dca74a17a0d9c57ed3b9f891/elements/id-a691c0ca694b4f02a363ed139cdc512e.html" target="element"> P2. Twiin is een vertrouwd netwerk van organisaties </a></li>
-													<li class="tree-element "><a href="id-b585bbf4dca74a17a0d9c57ed3b9f891/elements/id-636be6794aac43b7a68b0efa26a36986.html" target="element"> P3. Het Twiin Afsprakenstelsel leeft en blijft zich ontwikkelen </a></li>
-													<li class="tree-element "><a href="id-b585bbf4dca74a17a0d9c57ed3b9f891/elements/id-0cf457532a4f4e4683f88f9436fed0be.html" target="element"> P4. De functionele behoeften van zorgverleners, zorgaanbieders en pati&#235;nten zijn leidend </a></li>
-													<li class="tree-element "><a href="id-b585bbf4dca74a17a0d9c57ed3b9f891/elements/id-c376321785b84cba9f271229ea9f9472.html" target="element"> P5. Deelname aan Twiin is vrijwillig maar niet vrijblijvend </a></li>
-													<li class="tree-element "><a href="id-b585bbf4dca74a17a0d9c57ed3b9f891/elements/id-f41596a6fbd34848bfc43be86cb89056.html" target="element"> P6. Keuzevrijheid voor zorgaanbieders en leveranciers </a></li>
-													<li class="tree-element "><a href="id-b585bbf4dca74a17a0d9c57ed3b9f891/elements/id-0ff7901da1674d18b0b14d908759be46.html" target="element"> P7. Privacy en Security by design </a></li>
-													<li class="tree-element "><a href="id-b585bbf4dca74a17a0d9c57ed3b9f891/elements/id-29b276598f7942a9bf04b73c23f3b80c.html" target="element"> P8. Gebruik van internationale standaarden </a></li>
-													<li class="tree-element "><a href="id-b585bbf4dca74a17a0d9c57ed3b9f891/elements/id-fd8f339f49b547e19df9332aeccdc9d5.html" target="element"> Principle </a></li>
-													<li class="tree-element "><a href="id-b585bbf4dca74a17a0d9c57ed3b9f891/elements/id-971a682fee2b43089d83ed4c0eb87ac7.html" target="element"> Zorgaanbieder identificatie </a></li>
-													<li class="tree-element "><a href="id-b585bbf4dca74a17a0d9c57ed3b9f891/elements/id-909c1f9e5299462fa05c6dda18d77d51.html" target="element"> Zorgverlener identificatie </a></li>
-													<li class="tree-element "><a href="id-b585bbf4dca74a17a0d9c57ed3b9f891/elements/id-6e5548731d024352b83623507ea2c99d.html" target="element"> Pati&#235;nt identificatie </a></li>
+										<li class="tree-folder "><span><i class="glyphicon glyphicon-triangle-right"></i> Afsprakenstelsel - principes </span>
+											<ul>
+															<li class="tree-element "><a href="id-b585bbf4dca74a17a0d9c57ed3b9f891/elements/id-0dcb68d77f0f4fc99e9935d92f7f2747.html" target="element"> P1. Landelijke beschikbaarheid en hergebruik van gezondheidsgegevens </a></li>
+															<li class="tree-element "><a href="id-b585bbf4dca74a17a0d9c57ed3b9f891/elements/id-a691c0ca694b4f02a363ed139cdc512e.html" target="element"> P2. Twiin is een vertrouwd netwerk van organisaties </a></li>
+															<li class="tree-element "><a href="id-b585bbf4dca74a17a0d9c57ed3b9f891/elements/id-636be6794aac43b7a68b0efa26a36986.html" target="element"> P3. Het Twiin Afsprakenstelsel leeft en blijft zich ontwikkelen </a></li>
+															<li class="tree-element "><a href="id-b585bbf4dca74a17a0d9c57ed3b9f891/elements/id-0cf457532a4f4e4683f88f9436fed0be.html" target="element"> P4. De functionele behoeften van zorgverleners, zorgaanbieders en pati&#235;nten zijn leidend </a></li>
+															<li class="tree-element "><a href="id-b585bbf4dca74a17a0d9c57ed3b9f891/elements/id-c376321785b84cba9f271229ea9f9472.html" target="element"> P5. Deelname aan Twiin is vrijwillig maar niet vrijblijvend </a></li>
+															<li class="tree-element "><a href="id-b585bbf4dca74a17a0d9c57ed3b9f891/elements/id-f41596a6fbd34848bfc43be86cb89056.html" target="element"> P6. Keuzevrijheid voor zorgaanbieders en leveranciers </a></li>
+															<li class="tree-element "><a href="id-b585bbf4dca74a17a0d9c57ed3b9f891/elements/id-0ff7901da1674d18b0b14d908759be46.html" target="element"> P7. Privacy en Security by design </a></li>
+															<li class="tree-element "><a href="id-b585bbf4dca74a17a0d9c57ed3b9f891/elements/id-29b276598f7942a9bf04b73c23f3b80c.html" target="element"> P8. Gebruik van internationale standaarden </a></li>
 
+											</ul>
+											</li><li class="tree-folder "><span><i class="glyphicon glyphicon-triangle-right"></i> Vertrouwensmode - requirements </span>
+											<ul>
+															<li class="tree-element "><a href="id-b585bbf4dca74a17a0d9c57ed3b9f891/elements/id-6e5548731d024352b83623507ea2c99d.html" target="element"> Pati&#235;nt identificatie </a></li>
+															<li class="tree-element "><a href="id-b585bbf4dca74a17a0d9c57ed3b9f891/elements/id-971a682fee2b43089d83ed4c0eb87ac7.html" target="element"> Zorgaanbieder identificatie </a></li>
+															<li class="tree-element "><a href="id-b585bbf4dca74a17a0d9c57ed3b9f891/elements/id-909c1f9e5299462fa05c6dda18d77d51.html" target="element"> Zorgverlener identificatie </a></li>
+
+											</ul>
+											</li>
 									</ul>
 								</li>
 								<li class="tree-folder "><span class="i18n-implementation"><i class="glyphicon glyphicon-triangle-right"></i> </span>
@@ -708,7 +715,7 @@
 											</ul>
 											</li>
 									</ul>
-									</li><li class="tree-folder "><span><i class="glyphicon glyphicon-triangle-right"></i> Organisatie achitectuur </span>
+									</li><li class="tree-folder hide-true  "><span><i class="glyphicon glyphicon-triangle-right"></i> Organisatie achitectuur </span>
 									<ul>
 										<li class="tree-folder "><span><i class="glyphicon glyphicon-triangle-right"></i> 01. Bedrijfsfunctiemodel </span>
 											<ul>

diff --git a/docs/tw-archi/id-b585bbf4dca74a17a0d9c57ed3b9f891/views/id-79b34c2b35734f7a8888ad338d62a676.html b/docs/tw-archi/id-b585bbf4dca74a17a0d9c57ed3b9f891/views/id-79b34c2b35734f7a8888ad338d62a676.html
@@ -32,16 +32,17 @@
 		    <!-- If this is a digram model (has children and no bounds) show the image -->
 			   <img class="diagram" src="../images/id-79b34c2b35734f7a8888ad338d62a676.png" alt="Start - organisatie architectuur" usemap="#id-79b34c2b35734f7a8888ad338d62a676map"/>
 			   <map name="id-79b34c2b35734f7a8888ad338d62a676map">
+				          <area shape="rect" coords="394,10,575,35" href="../objects/id-45a9d50a5fe34e0ca67aec316721d52f.html" target="element" >
 				          <area shape="rect" coords="10,370,123,467" href="../objects/id-32bf64ae33554b9dbf61e7ceeb84b903.html" target="element" >
 				          <area shape="rect" coords="202,10,383,35" href="../objects/id-3ef7413d1d384217809ca33661bb552b.html" target="element" >
-				          <area shape="rect" coords="274,118,387,215" href="../objects/id-acc15f88fb7544ea9c9fb34a449343e1.html" target="element" >
-				          <area shape="rect" coords="10,118,123,215" href="../objects/id-8e864e7b1d6844419ad038ce9367b3b3.html" target="element" >
+				          <area shape="rect" coords="274,142,387,239" href="../objects/id-acc15f88fb7544ea9c9fb34a449343e1.html" target="element" >
+				          <area shape="rect" coords="10,142,123,239" href="../objects/id-8e864e7b1d6844419ad038ce9367b3b3.html" target="element" >
 				          <area shape="rect" coords="406,370,519,467" href="../objects/id-0105b8b5c62a447dbb3a12d118a4c9fb.html" target="element" >
 				          <area shape="rect" coords="274,370,387,467" href="../objects/id-f7bc0f173fb04ecc9081bc2ea1655e2d.html" target="element" >
 				          <area shape="rect" coords="142,370,255,467" href="../objects/id-8e12562786144d3d995b1862cc501a95.html" target="element" >
 				          <area shape="rect" coords="10,310,959,359" href="../objects/id-df689df7f110418491cd3c4f1688a234.html" target="element" >
 				          <area shape="rect" coords="10,279,485,311" href="../objects/id-fa37443dabf6476fad6598f7b2777e8b.html" target="element" >
-				          <area shape="rect" coords="10,82,959,119" href="../objects/id-a0f7799595914d6fa27b18597460eb66.html" target="element" >
+				          <area shape="rect" coords="10,82,959,131" href="../objects/id-a0f7799595914d6fa27b18597460eb66.html" target="element" >
 				          <area shape="rect" coords="10,10,191,35" href="../objects/id-1f92c5b57ee44f7390555f570c7e946d.html" target="element" >
 				          <area shape="rect" coords="10,46,485,78" href="../objects/id-2998a6f3d5f54cb391fcc8b8906c47d3.html" target="element" >
 
@@ -175,6 +176,11 @@
 									           <td> <a href="../objects/id-32bf64ae33554b9dbf61e7ceeb84b903.html" target="element" class="i18n-elementtype-DiagramModelGroup"> </a> </td>
 									        </tr>
 
+									        <tr>
+									           <td> <a href="../objects/id-45a9d50a5fe34e0ca67aec316721d52f.html" target="element"> over architectuur </a> </td>
+									           <td> <a href="../objects/id-45a9d50a5fe34e0ca67aec316721d52f.html" target="element" class="i18n-elementtype-DiagramModelGroup"> </a> </td>
+									        </tr>
+
 
 								</tbody>
 							</table>
@@ -195,6 +201,7 @@
 											<!-- DEBUG: Skipping element from class com.archimatetool.model.impl.SketchModelSticky -->
 											<!-- DEBUG: Skipping element from class com.archimatetool.model.impl.DiagramModelGroup -->
 											<!-- DEBUG: Skipping element from class com.archimatetool.model.impl.SketchModelSticky -->
+											<!-- DEBUG: Skipping element from class com.archimatetool.model.impl.DiagramModelGroup -->
 											<!-- DEBUG: Skipping element from class com.archimatetool.model.impl.DiagramModelGroup -->
 											<!-- DEBUG: Skipping element from class com.archimatetool.model.impl.DiagramModelGroup -->
 											<!-- DEBUG: Skipping element from class com.archimatetool.model.impl.DiagramModelGroup -->

diff --git a/docs/tw-archi/id-b585bbf4dca74a17a0d9c57ed3b9f891/objects/id-45a9d50a5fe34e0ca67aec316721d52f.html b/docs/tw-archi/id-b585bbf4dca74a17a0d9c57ed3b9f891/objects/id-45a9d50a5fe34e0ca67aec316721d52f.html
@@ -2,7 +2,7 @@
 <html class="frame" lang="en">
 <head>
 	<meta http-equiv="Content-Type" content="text/html;charset=utf-8">
-	<title>Toelichting</title>
+	<title>over architectuur</title>
 
 	<!-- JQUERY -->
 	<script type="text/javascript" src="../../lib/jquery/jquery.min.js"></script>
@@ -21,11 +21,11 @@
 
 		<div class="panel-heading root-panel-heading">
             <!-- Name -->
-               <b>Toelichting</b>
+               <b>over architectuur</b>
 
             <!-- If a View with Viewpoint -->
-			   (<span class="i18n-elementtype-SketchModelSticky"></span>)
-			   <a class="glyphicon glyphicon-info-sign" id="hint-SketchModelSticky" target="hint"></a>
+			   (<span class="i18n-elementtype-DiagramModelGroup"></span>)
+			   <a class="glyphicon glyphicon-info-sign" id="hint-DiagramModelGroup" target="hint"></a>
 		</div>
 
 		<div class="panel-body root-panel-body">
@@ -35,7 +35,7 @@
 				<!-- Nav tabs -->
 				<ul class="nav nav-tabs" role="tablist">
                     <!-- Purpose / Documentation / Content -->
-                       <li role="presentation" class="active"><a href="#documentation" aria-controls="documentation" role="tab" data-toggle="tab" class="i18n-content"></a></li>
+					   <li role="presentation" class="active"><a href="#documentation" aria-controls="documentation" role="tab" data-toggle="tab" class="i18n-documentation"></a></li>
 
                     <!-- Properties -->
                     <li role="presentation"><a href="#properties" aria-controls="properties" role="tab" data-toggle="tab" class="i18n-properties"></a></li>
@@ -47,7 +47,19 @@
 				<!-- Tab panes -->
 				<div class="tab-content">
 					<div role="tabpanel" class="tab-pane active" id="documentation">
-						<div class="convertlinks documentation" style="white-space:pre-wrap">De structuur en samenhang van de Twiin (programma)organisatie. Deze architectuur is complementair aan de structuur binnen Confluence (enkel intern toegankelijk). Confluence is de bron en dit model borgt de samenhang.</div>
+						<div class="convertlinks documentation" style="white-space:pre-wrap">Architectuur kan binnen Twiin verschillende betekenissen hebben
+
+1. Het kan gaan over de structuur en samenhang van het Twiin afsprakenstelsel (als ding / informatie object)
+
+2. Het kan gaan over gedetailleerde ontwerpen binnen het Twiin afsprakenstelsel (als ding / specificaties)
+
+3.  Het kan gaan over de wijze waarop wijzigingen binnen het Twiin afsprakenstelsel beheerst worden vanuit structuur en samenhang (als handeling / achitectuur ondersteuning)
+
+4. Het gaan over de structuur en samenhang van de Twiin (programma)oganisatie (als ding / operationeel model)
+
+5. Het kan gaan over de wijze waarop wijzigingen binnen de Twiin organisatie beheerst worden vanuit de structuur en samenhang (als handeling / achitectuur ondersteuning)
+
+Dit model betreft vooral punten 4, 5, en 3 maar staat uiteraard niet los van de overige punten. Ook hier is sprake van samenhang.</div>
 					</div>
 					<div role="tabpanel" class="tab-pane" id="properties">
 						<table class="table table-striped table-hover table-condensed">
